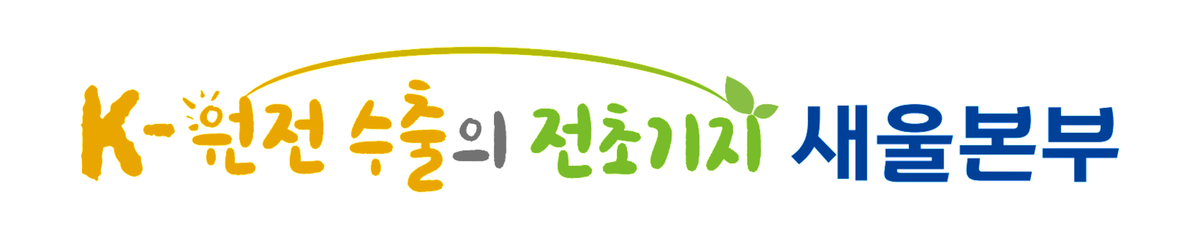
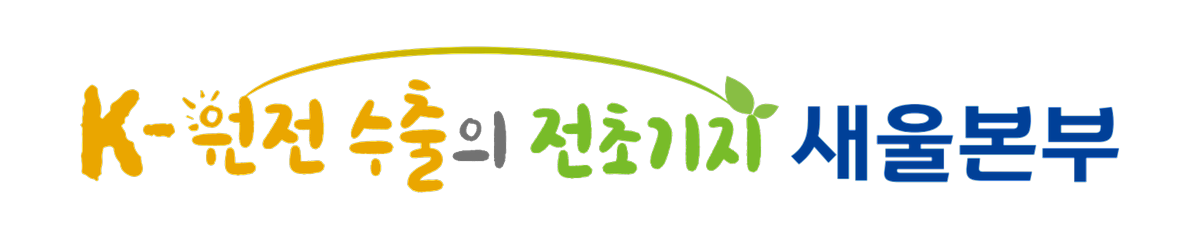
배너 이미지 배경 투명화, 상자 없이 페이지 바탕 위에 표시 (어두운 화면은 밝은 바탕 유지)
Claude-Session: https://claude.ai/code/session_01Y8VkhLhsxDNgGHtuMAVLDo

diff --git a/public/index.html b/public/index.html
@@ -145,12 +145,13 @@ details.kw{margin-bottom:12px;font-size:13px}details.kw summary{cursor:pointer;c
 .seg,#chips{touch-action:pan-y;overscroll-behavior-x:contain}
 @media(pointer:coarse){.seg,#chips{cursor:auto}}
 /* ---------- 상단 광고 배너 ---------- */
-.ad{position:relative;margin-bottom:14px;border-radius:14px;overflow:hidden;background:var(--card);border:1px solid var(--bd);box-shadow:var(--shadow)}
+.ad{position:relative;margin:60px 0 14px;border-radius:14px;overflow:hidden}   /* 투명 로고가 페이지 바탕 위에 바로 놓이도록 상자·그림자를 없애고, 위쪽 어두운 머리글 띠와 겹치지 않게 내린다 */
+@media(prefers-color-scheme:dark){.ad{background:#f4f8fc}.ad div.cap{color:#44556a}}   /* 어두운 화면에서는 짙은 파란 글자가 안 보이므로 밝은 바탕을 깐다 */
 .ad[hidden]{display:none}
 .ad a,.ad .sl{display:block;color:inherit;text-decoration:none}
 .ad img{display:block;width:100%;height:auto;max-height:220px;object-fit:cover}
 .ad .cap{font-size:12.5px;padding:6px 12px;color:var(--mut);display:flex;justify-content:space-between;gap:8px}
-.ad .tg{position:absolute;left:8px;top:8px;font-size:10.5px;font-weight:800;background:rgba(0,0,0,.55);color:#fff;border-radius:999px;padding:1px 8px;letter-spacing:.04em}
+.ad .tg{position:absolute;left:0;top:0;font-size:10.5px;font-weight:800;background:rgba(0,0,0,.55);color:#fff;border-radius:999px;padding:1px 8px;letter-spacing:.04em}
 .ad .dots{position:absolute;right:10px;top:10px;display:flex;gap:5px}.ad .dots i{width:7px;height:7px;border-radius:50%;background:rgba(255,255,255,.55);box-shadow:0 0 0 1px rgba(0,0,0,.25)}.ad .dots i.on{background:#fff}
 /* ---------- 열린원전운영정보 실시간 패널 ---------- */
 .np{background:var(--card);border:1px solid var(--bd);border-radius:16px;padding:14px 16px;margin-bottom:16px;box-shadow:var(--shadow);position:relative;overflow:hidden}
